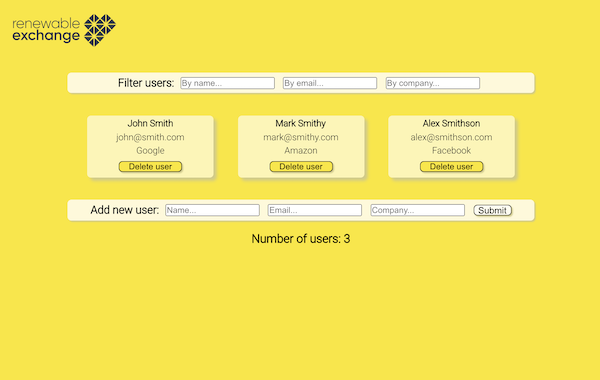
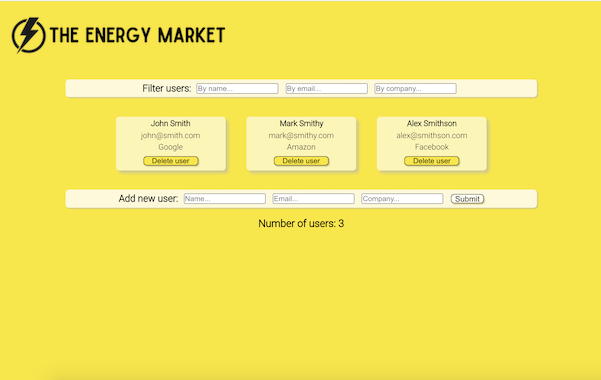
change renewable test to energy market

Changed region(s): [[0.09, 0.2895, 0.9, 0.6368], [0.09, 0.1737, 0.9, 0.2605], [0.0, 0.0, 1.0, 0.1447]]

diff --git a/src/Components/Portfolio.jsx b/src/Components/Portfolio.jsx
@@ -52,12 +52,12 @@ class Portfolio extends Component {
         code: "https://github.com/j-dublon/distance-events",
       },
       {
-        name: "Renewable Exchange Users",
+        name: "The Energy Market",
         id: "1",
         description:
-          "A single page app built during a coding test, serving data from a web API. Users may add, delete and filter other users.",
+          "A single page app serving data from a web API. Users may add, delete and filter other users.",
         tech: "React | Redux | Responsive CSS | HTML5 | JavaScript | Axios",
-        site: "https://renewable-exchange.netlify.app/",
+        site: "https://energy-market.netlify.app/",
         code: "https://github.com/j-dublon/renewable-test",
       },
       {
